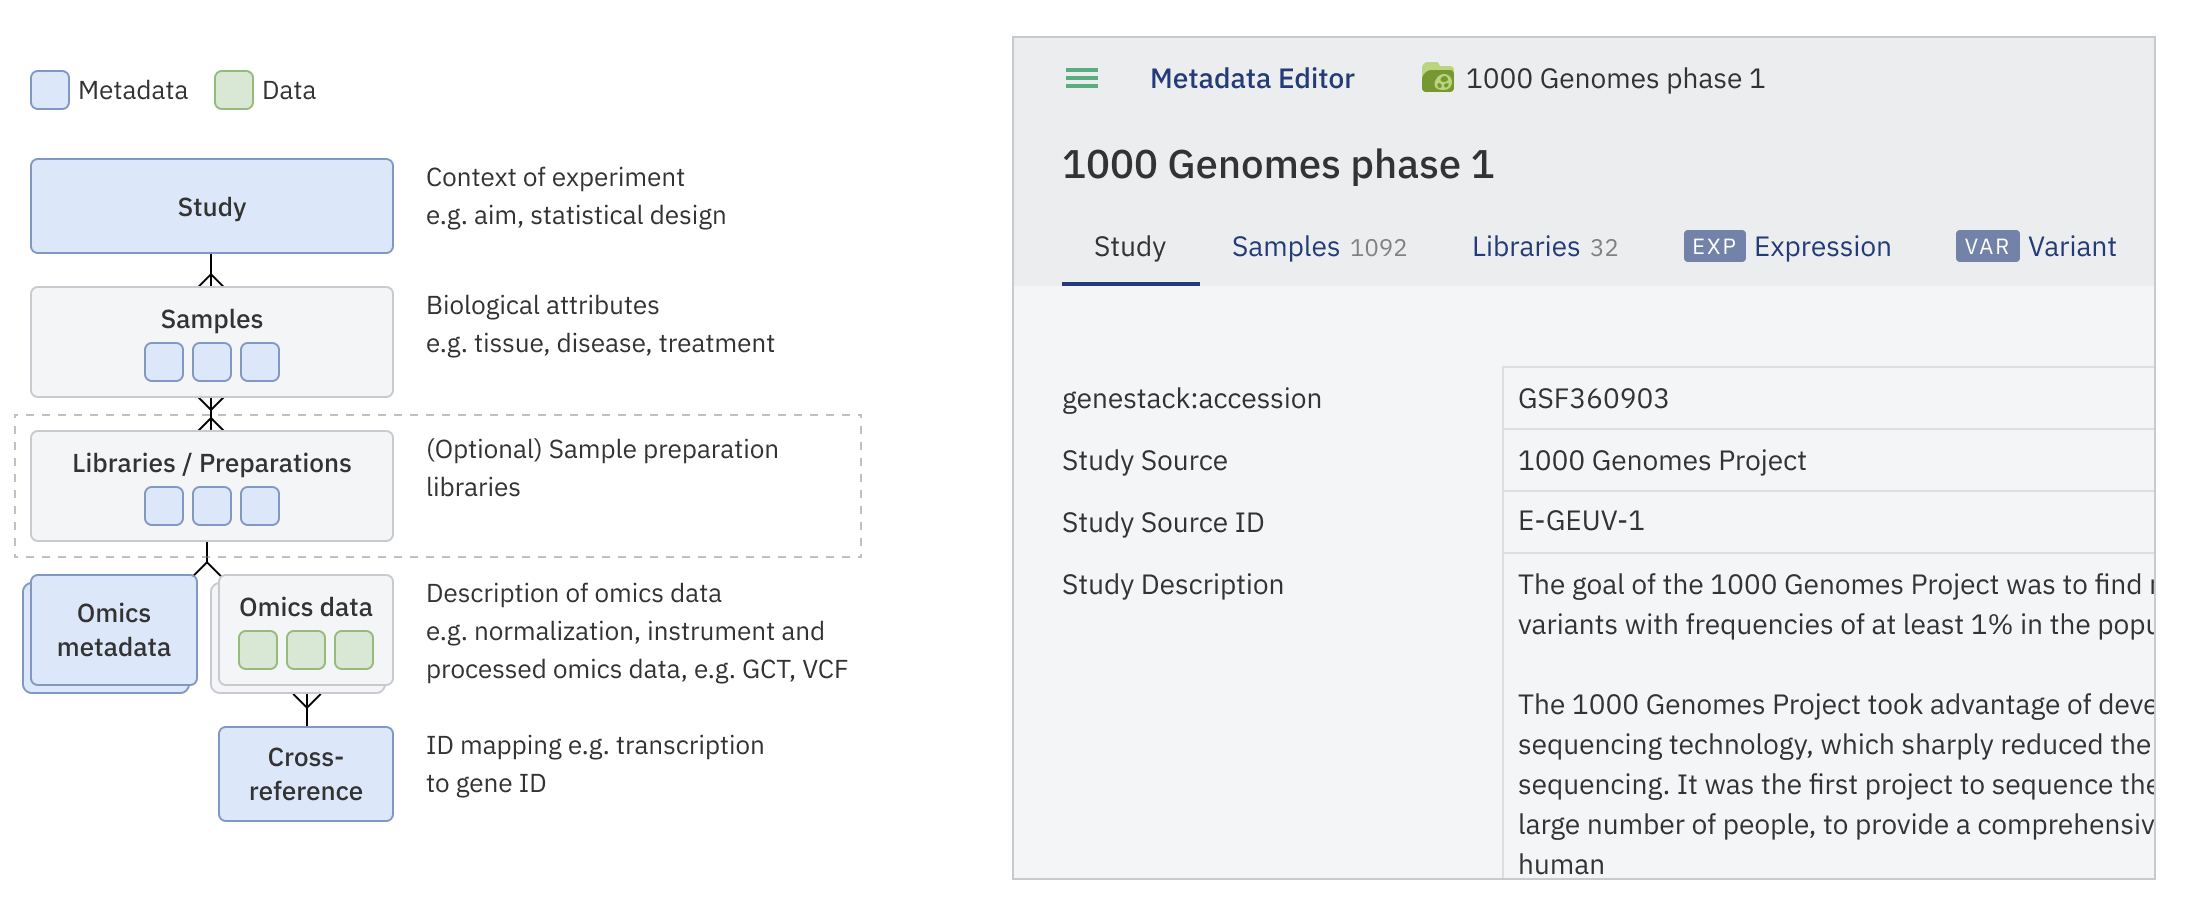
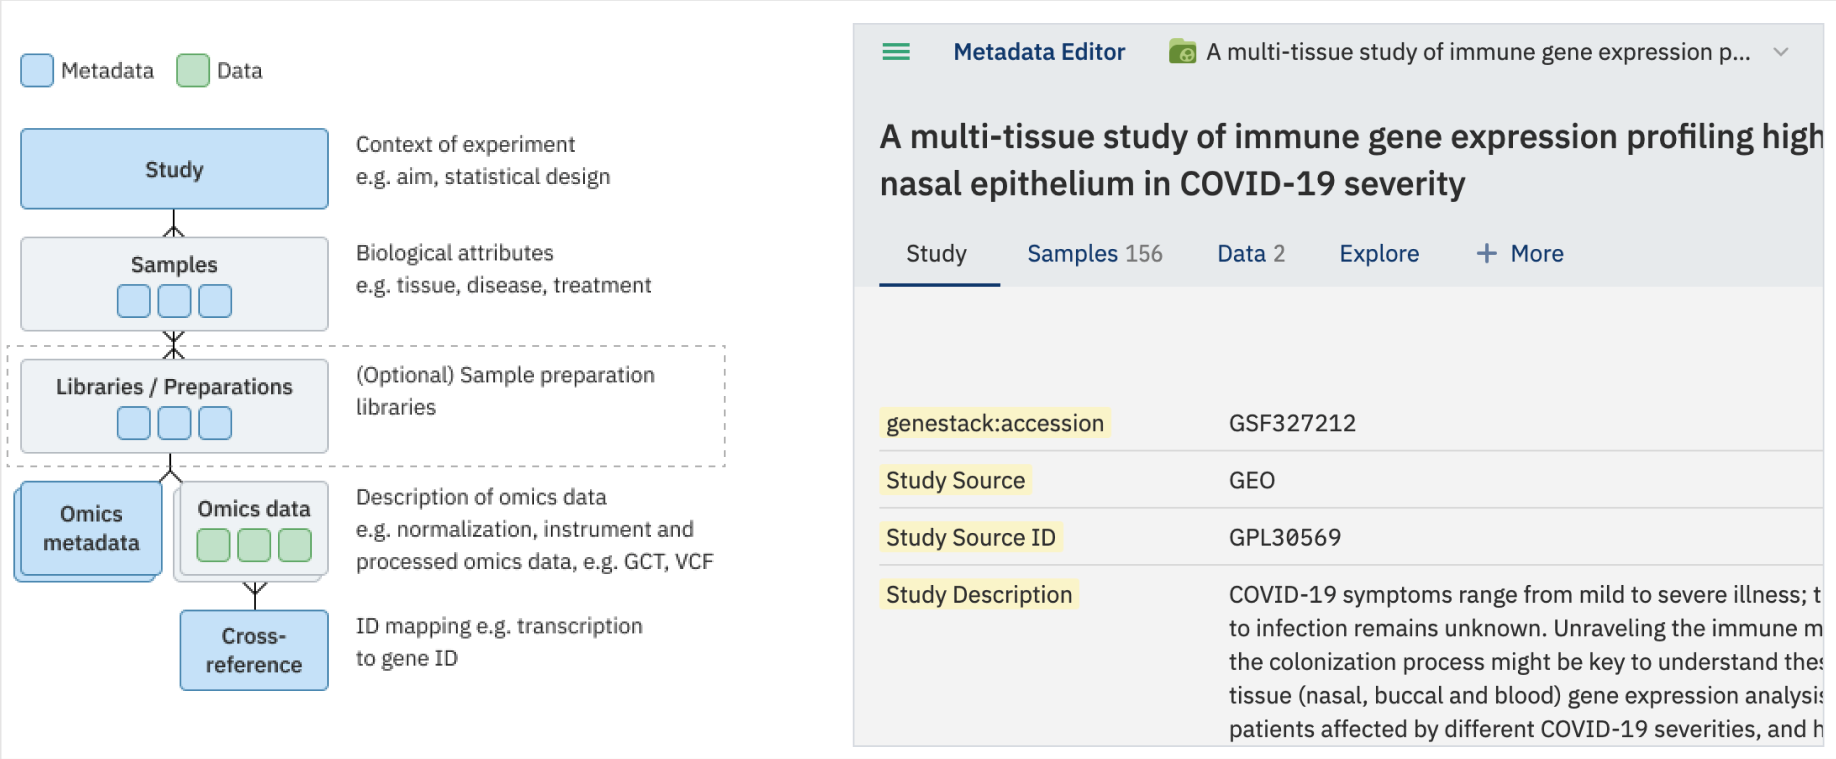
- Modified the file import sources list to include HTTP/HTTPS URLs, S3 URIs, and NFS paths and exclude FTP. - Clarified instructions for linking samples to studies and managing job execution IDs. - Improved the explanation of the optional "templateId" parameter for data imports. - Updated various se

diff --git a/docs/user-guide/doc-odm-user-guide/import-data-using-api.md b/docs/user-guide/doc-odm-user-guide/import-data-using-api.md
@@ -43,7 +43,8 @@ this data type. Then they are sequentially linked in the Integration layer.
 
 ## Where can I import the data from?
 
-API allows loading files hosted at FTP or HTTP web addresses or contained in a mounted ODM NFS storage.
+API allows loading files hosted at HTTP/HTTPS URLs, S3 URIs, and NFS paths for files stored in mounted ODM storage.
+
 !!! note "Important"
     In order to be able to import data from the local storage, this storage must be mounted to the environment where ODM is deployed. If it is not mounted, you can use GUI to import the data from the local computer. The ability to load data from the local machine using API will be added in the future releases.
 
@@ -149,8 +150,7 @@ There are specific endpoints to import specific data types, as listed in the **S
 
 ![api-navigate-swagger.gif](doc-odm-user-guide/gifs/api-navigate-swagger.gif)
 
-For studies,
-you should go to the *job* endpoint, use the **POST /api/v1/jobs/import/study** method, and supply the file URL:
+For data import, you should go to the job section and choose the endpoint relevant for the specific data type. For studies, use the **POST /api/v1/jobs/import/study** method, and supply the file URL:
 
 ![api-add-study.gif](doc-odm-user-guide/gifs/api-add-study.gif)
 
@@ -161,7 +161,7 @@ you should go to the *job* endpoint, use the **POST /api/v1/jobs/import/study** 
 ```
 
 !!! note "templateId"
-    By the default "templateId" is included in the call, it specifies  the template that will be assigned to your new study. If you are not sure what is the correct template accession - you can remove this field from the call, the default template will be assigned to your study. To specify the template that you would like to use - you will need to supply the correct template accession, that can be aquired in the Template Editor. You can change the assigned template in the Metadata Editor.
+    You can include an optional parameter **"templateId"** to specify which template should be associated with the loaded data. You will need to provide the accession of the desired template, which can be obtained the Template Editor. If the "templateId" parameter is not specified, the default template set for the instance will be used.
 
 Example of the curl call:
 ```default
@@ -196,7 +196,7 @@ owned by you:
 ![image](doc-odm-user-guide/images/empty_study.png)
 
 #### Working with the jobExecId
-The following endpoints allow you to manage and inspect jobs using the jobExecId, which is returned after initiating an import or other asynchronous task.
+The following endpoints allow you to manage and inspect jobs using the jobExecId, which is returned after initiating an asynchronous import task.
 
 **GET /api/v1/jobs/{jobExecId}/info**
 Retrieves the current status and metadata of a specific job execution.
@@ -291,8 +291,7 @@ However, you won’t see the samples in the Study Browser yet, because no sample
 
 ### Link samples to study
 
-You can link samples to study using the integration endpoint **POST /api/v1/as-curator/integration/link/sample/group/{sourceId}/to/study/{targetId}**, specifying the accessions of the pair of objects to be
-linked. The following call will link samples that we imported in the previous step (with accession GSF1283530) to the study
+You can link samples to study using the integration endpoint **POST /api/v1/as-curator/integration/link/sample/group/{sourceId}/to/study/{targetId}**, specifying the accessions of the study and the accession of the sample group. This will link all samples from the imported file to the study. The following call will link samples that we imported in the previous step (with accession GSF1283530) to the study
 (with accession GSF1283528):
 
 ```default
@@ -308,7 +307,8 @@ to your study has changed from ‘-’ to ‘4’:
 
 ![sample_added.gif](doc-odm-user-guide/gifs/sample_added.gif)
 
-You can link other samples in the same way. This example demonstrates a simple procedure for linking two entities, which can serve as a foundation for building automated import pipelines.  
+Samples from other files can be loaded in the same way. They will be displayed in the Metadata Editor on a separate tab.
+
 !!! note "Data Import using Python script"
     If your goal is to perform a one-time import and create a single study, we recommend using our provided [API script](import-data-using-python-script.md) for simplicity and efficiency.
 
@@ -401,7 +401,7 @@ As response you will get all the information, including the metadata, for the ex
 }
 ```
 
-You can then link this expression either by group (link expression group to sample group) or object to object (expression object to specific sample). 
+You can then link this expression by group (link expression group to sample group).
 
 The call bellow will link the **expression group to the sample group** (that's been linked to the study in the previous step) using the **POST /api/v1/as-curator/integration/link/expression/group/{sourceId}/to/sample/group/{targetId}** endpoint:
 
@@ -428,7 +428,7 @@ Expression data is now succesfuly linked and visible in the GUI.
 
 ### Import and link variant data to samples
 
-Let’s repeat the previous step. This time, for variant data, so that the same sample group is linked to both expression and variant data.
+Let's repeat the previous step, this time for variant data, ensuring that both expression and variant data are linked to the samples, reinforcing the data model hierarchy where samples are linked to a study, and data types (expression and variant) are linked to samples
 
 To import the variant data we will use **/api/v1/jobs/import/variant** endpoint:
 
